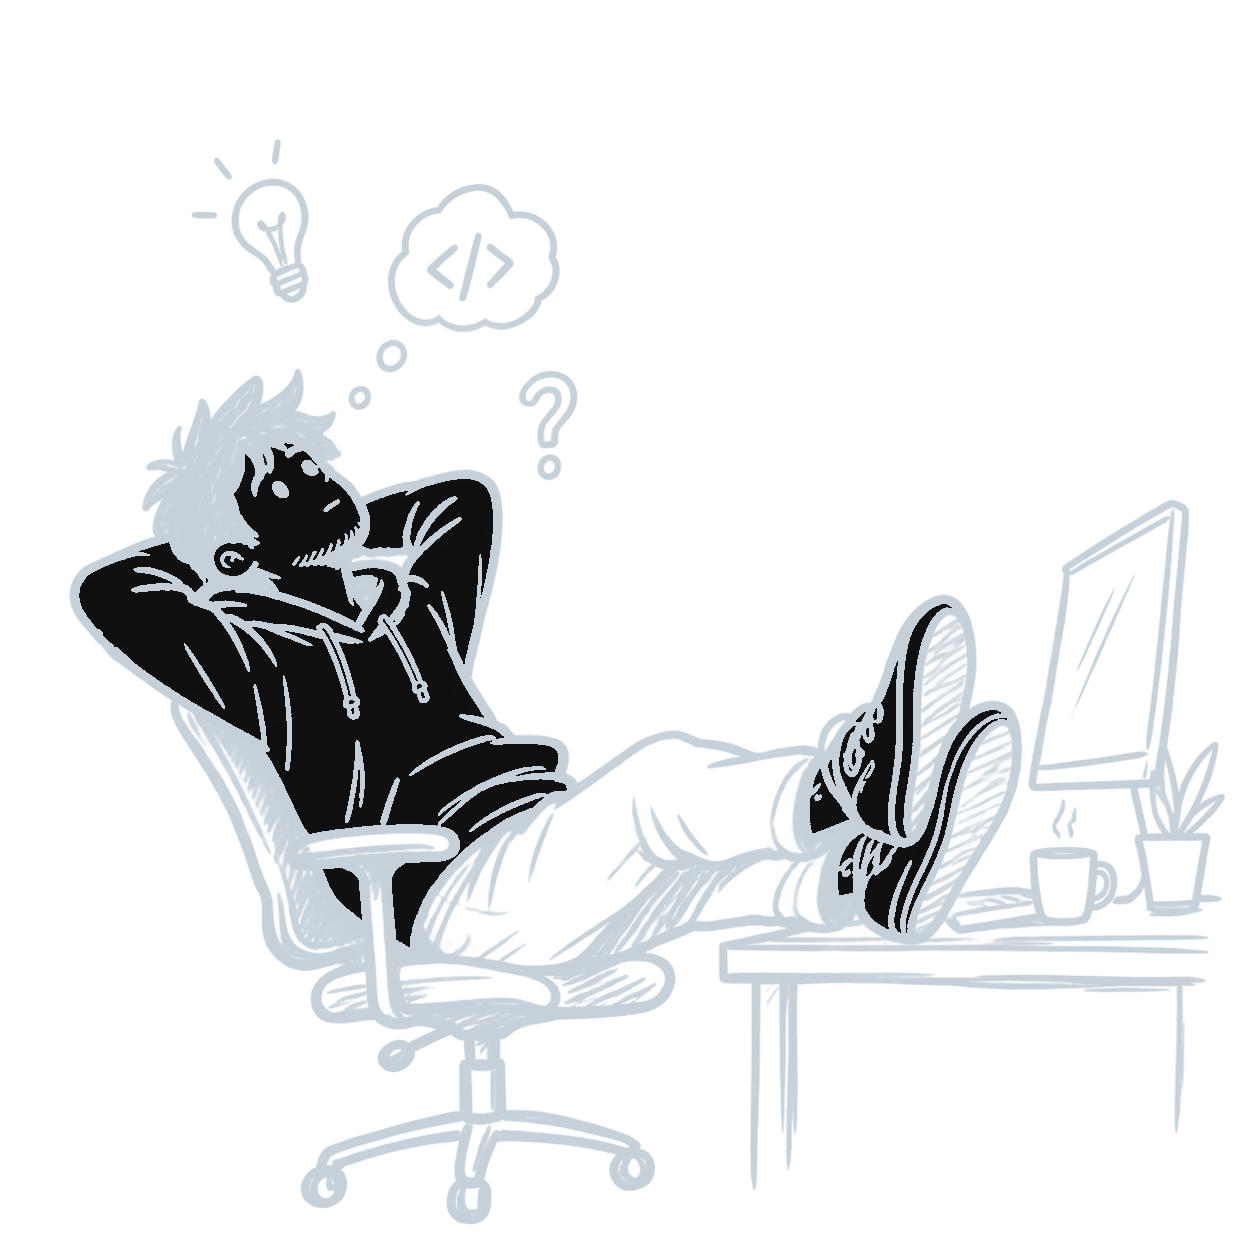
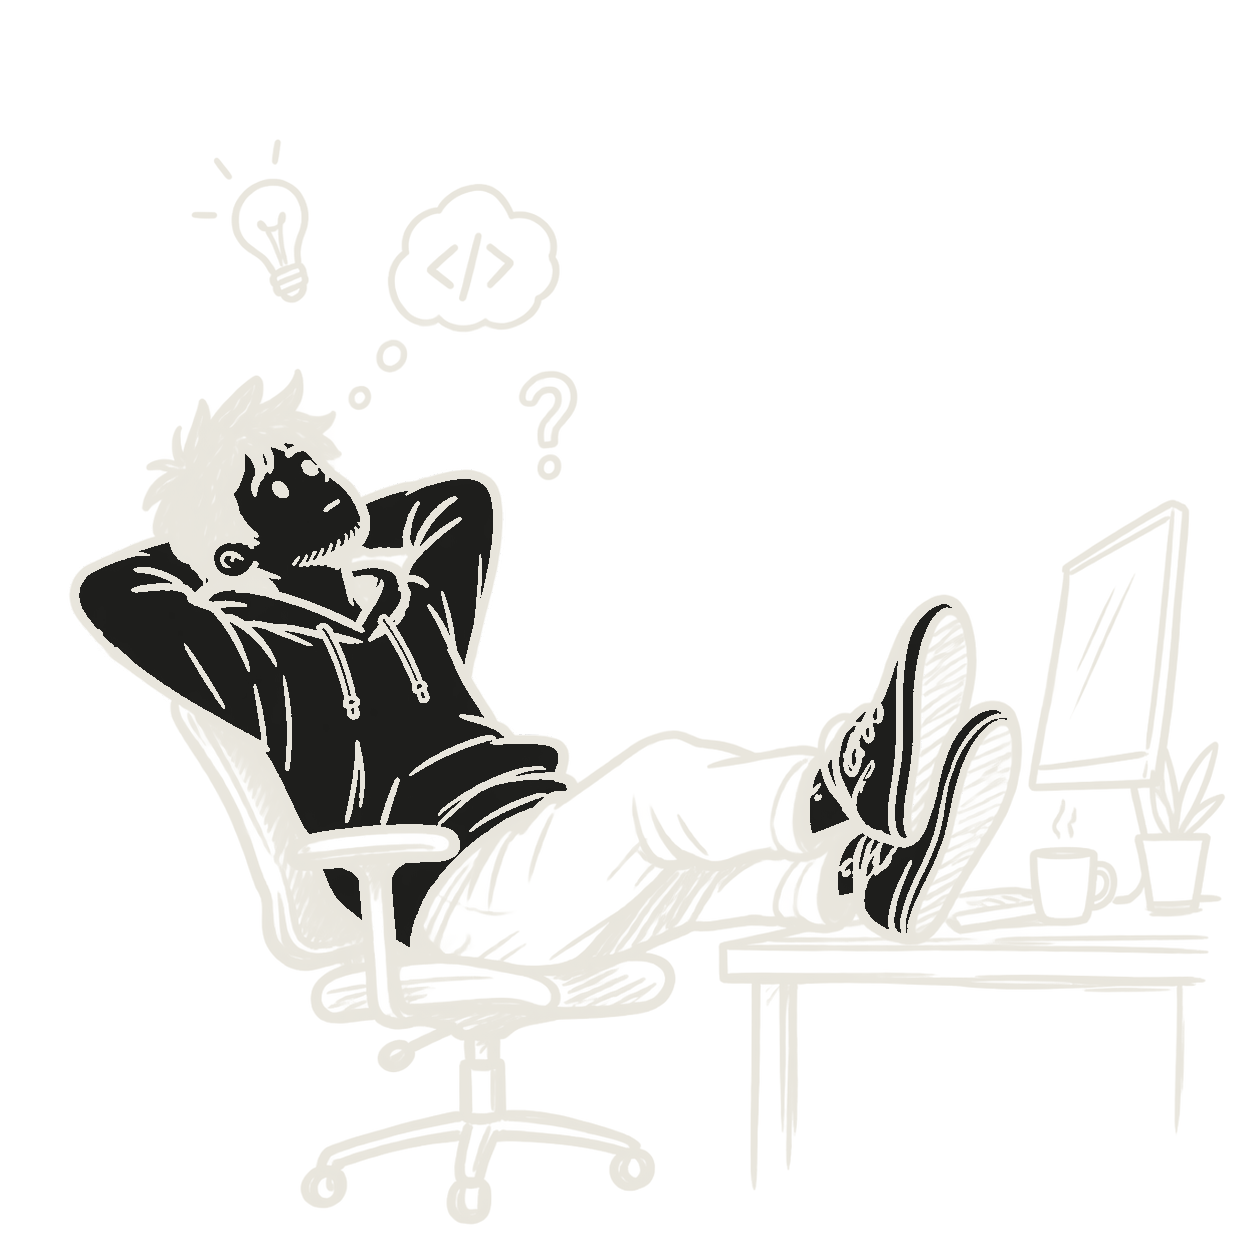
Blackboard dark palette, matching nav color, and a real sticky fix
- Dark mode is now #1c1c1a background / #e8e5dc ink (a soft charcoal
  "blackboard" instead of near-black, warm chalk instead of white),
  regenerated both illustration dark variants to match
- Nav's dark background was hardcoded to Tailwind's neutral-950 instead
  of the actual --paper token, so it visibly didn't match the rest of
  the page — switched to bg-[var(--paper)]
- Root-caused the nav's "not sticky" bug for real this time: it wasn't
  the invert filter (already removed) — it was `overflow-x: hidden` on
  html/body. Setting overflow-x to hidden/scroll/auto makes the other
  axis compute to auto too, turning that element into its own scroll
  container, which breaks position: sticky for anything inside it.
  Switched to overflow-x: clip, which isn't subject to that pairing
  rule and still prevents horizontal overflow.

diff --git a/src/components/Nav.tsx b/src/components/Nav.tsx
@@ -29,7 +29,7 @@ export function Nav() {
   }, [open]);
 
   return (
-    <header className="sticky top-0 z-50 border-b border-neutral-200 bg-white/90 backdrop-blur-sm dark:border-neutral-800 dark:bg-neutral-950/90">
+    <header className="sticky top-0 z-50 border-b border-neutral-200 bg-white/90 backdrop-blur-sm dark:border-white/10 dark:bg-[var(--paper)]/90">
       <div className="site-px flex items-center justify-between py-4">
         <Link href="/" className="flex items-center gap-2" onClick={() => setOpen(false)}>
           <Image
@@ -94,7 +94,7 @@ export function Nav() {
                 animate={{ opacity: 1 }}
                 exit={{ opacity: 0 }}
                 transition={{ duration: 0.2, ease: "easeInOut" }}
-                className="fixed inset-0 z-40 flex h-dvh w-full flex-col items-center justify-center gap-8 bg-white sm:hidden dark:bg-neutral-950"
+                className="fixed inset-0 z-40 flex h-dvh w-full flex-col items-center justify-center gap-8 bg-white sm:hidden dark:bg-[var(--paper)]"
               >
                 {links.map((link, i) => (
                   <motion.a

diff --git a/src/app/globals.css b/src/app/globals.css
@@ -14,19 +14,23 @@
 }
 
 .dark {
-  --paper: #0d0d0d;
-  --ink: #c4cfd8;
+  --paper: #1c1c1a;
+  --ink: #e8e5dc;
 }
 
 html {
-  overflow-x: hidden;
+  /* clip, not hidden: setting overflow-x to hidden/scroll/auto makes
+     the other axis compute to auto too, turning this element into a
+     scroll container and breaking position: sticky for everything
+     inside it. clip isn't subject to that pairing rule. */
+  overflow-x: clip;
 }
 
 body {
   background: var(--paper);
   color: var(--ink);
   font-family: var(--font-sans);
-  overflow-x: hidden;
+  overflow-x: clip;
   max-width: 100vw;
   transition:
     background-color 0.2s ease,
